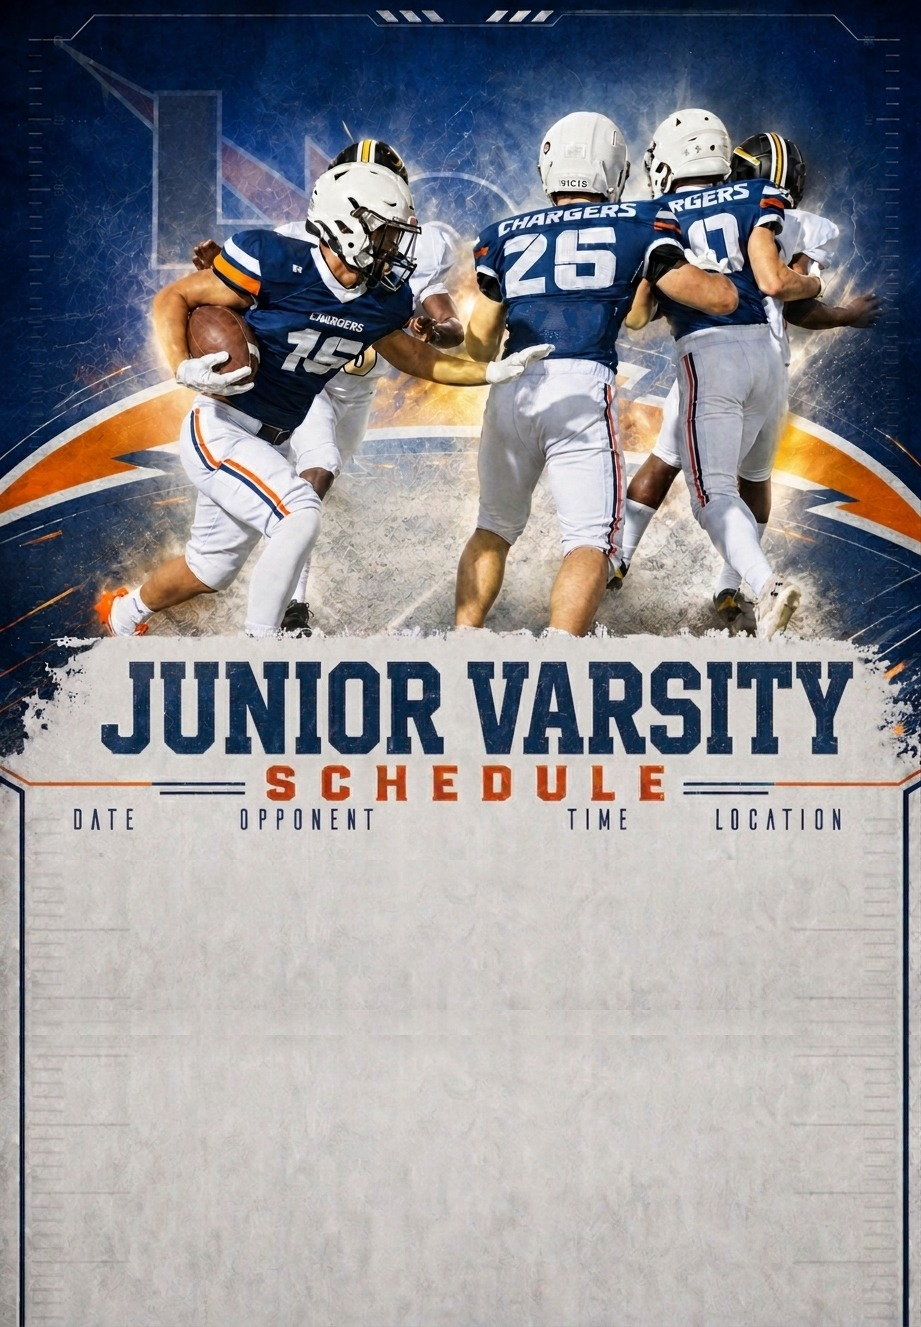
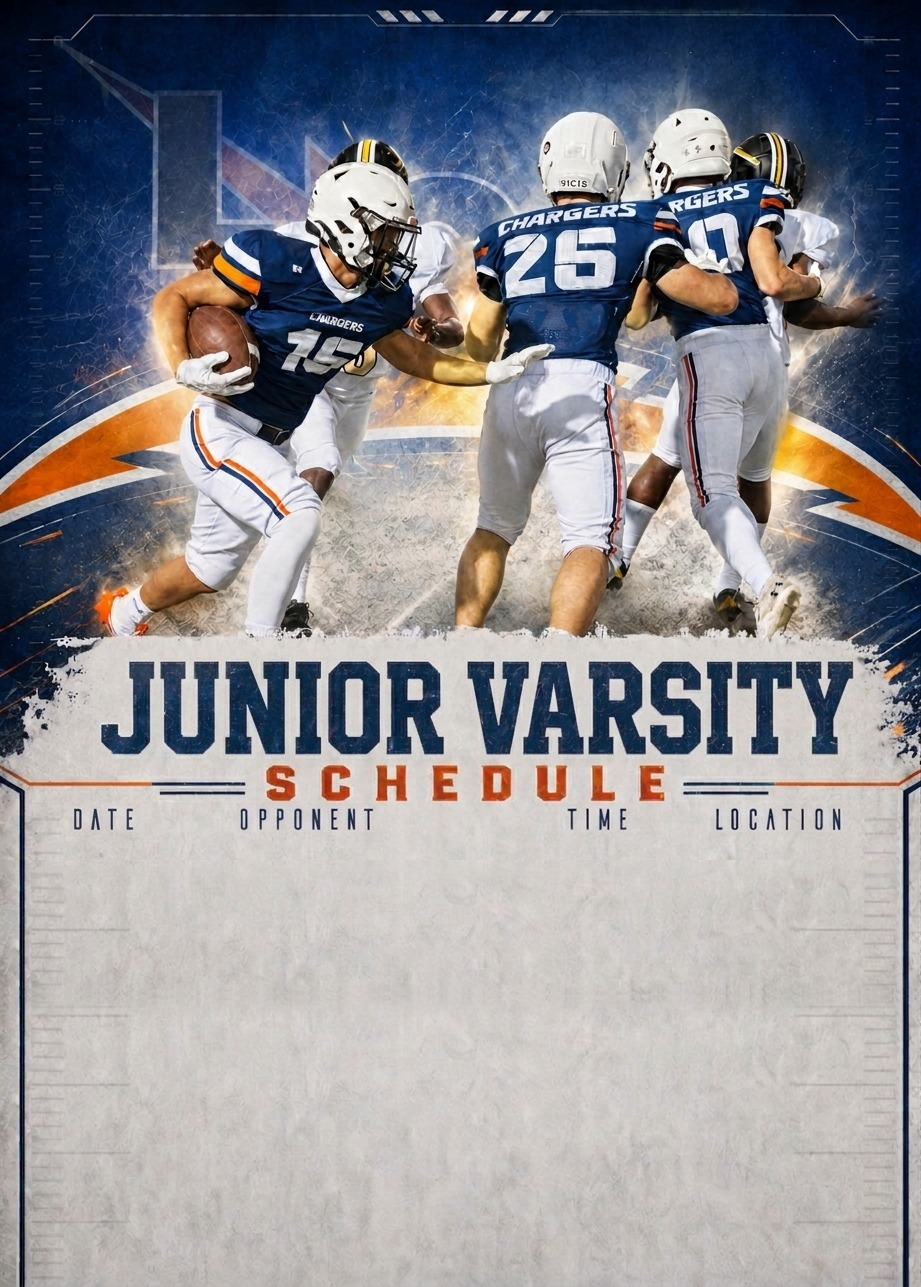
Shrink schedule bg images to exact real row counts, no buffer (#11)
Live feedback after deploying the 14/12/8-target version: still too
much blank space. Dropping all row headroom - each image is now
sized to fit exactly today's real row count (12 Varsity / 11 JV / 8
JH), not a projected future count:

  v_bg.jpeg:  921x1152 -> 921x1212 (+60px,  was +135px)
  jv_bg.jpeg: 921x1152 -> 921x1287 (+175px, was +330px... (sic, was
              +175px from the previous 14/12/8 round))
  jh_bg.jpeg: unchanged (921x1212, already at its real count)

Peak blank space (at the worst mid-width tablet viewport) drops
from ~19-23% of card height to ~15-19%; phone-width blank space
drops from ~11-15% to ~8-10%. Re-verified zero clipping at today's
exact row counts across viewport widths 300px-1440px, ~16-18px
margin at the worst width (300px).

Tradeoff, stated directly: with zero buffer, adding even one more
real row (e.g. a playoff game) will clip again on narrow phones
until these are resized again - same quick process as before.

Claude-Session: https://claude.ai/code/session_01DU4s2fKT84GGohvFAb6zRm

diff --git a/css/football.css b/css/football.css
@@ -139,34 +139,36 @@
    output instead, rescale its top/bottom by the same ratio first or
    the schedule grid will start too high again.
 
-   SIZING NOTE: target row capacity is 14 Varsity / 12 JV / 8 JH
-   (picked directly, not a shared rule), so each image got its own
-   extra height:
-     v_bg.jpeg:  921x1152 -> 921x1287 (+135px, today 13 rows, target 14)
-     jv_bg.jpeg: 921x1152 -> 921x1327 (+175px, today 11 rows, target 12)
-     jh_bg.jpeg: 921x1152 -> 921x1212 (+60px,  today 8 rows,  target 8)
-   JH's target equals its current row count, but it still needed
-   +60px: even at today's 8 rows the ORIGINAL 1152px image already
-   clipped on narrow phones (not on desktop), so some extension was
-   unavoidable just to stop clipping where things stand right now,
-   with no additional row headroom built in.
-   Checked for clipping at the target row counts across viewport
-   widths from 300px (narrow phones) up through 1440px desktop -
-   narrow phones are the real worst case here, not desktop, because
-   the image renders at a smaller CSS pixel width there so the same
-   row overflows into more natural image pixels. Each has ~18-19px
-   of margin at its target row count at the worst width tested
-   (vw=300). Below the target (true today for all three), there's
-   blank space at the bottom by design. If any target changes,
-   re-run /tmp/extend_bg.py (if still around) or regenerate with a
-   new extra_px per image and rescale these percentages by
-   old_height/new_height the same way. */
+   SIZING NOTE: zero row buffer - each image is sized to fit exactly
+   today's real row count, not a projected future count:
+     v_bg.jpeg:  921x1152 -> 921x1212 (+60px,  12 real Varsity rows)
+     jv_bg.jpeg: 921x1152 -> 921x1287 (+135px, 11 real JV rows)
+     jh_bg.jpeg: 921x1152 -> 921x1212 (+60px,  8 real JH rows, unchanged)
+   (Previously targeted 14/12/8 with headroom for more rows than
+   today's count - that left too much visible blank space in
+   production, per direct feedback, so dropped the headroom
+   entirely. The tradeoff: once a real schedule grows past today's
+   count - e.g. a playoff game added to Varsity - these need
+   re-sizing again, same process as before, or that one new row
+   clips again on narrow phones.) Even with zero row buffer, +60px
+   was still unavoidable on Varsity/JH: the ORIGINAL 1152px image
+   already clipped their current real row counts on narrow phones
+   (not desktop), so that's the floor, not a buffer.
+   Checked for clipping at exactly today's row counts across
+   viewport widths from 300px (narrow phones) up through 1440px
+   desktop - narrow phones are the real worst case here, not
+   desktop, because the image renders at a smaller CSS pixel width
+   there so the same row overflows into more natural image pixels.
+   ~16-18px of margin at the worst width tested (vw=300). If a
+   team's real row count changes, re-run /tmp/extend_bg.py (if
+   still around) or regenerate with a new extra_px per image and
+   rescale these percentages by old_height/new_height the same way. */
    /* Your Exact Varsity Placement Blueprint */
    .chargers-varsity-overlay {
      left: 7.5% !important;
      right: 3.5% !important;
-     top: 59.08% !important; /* 66% * (1152/1287) */
-     bottom: 1.79% !important; /* 2% * (1152/1287) */
+     top: 62.73% !important; /* 66% * (1152/1212) */
+     bottom: 1.90% !important; /* 2% * (1152/1212) */
      font-size: clamp(7px, 1.25vw, 18px) !important;
      line-height: 1.6 !important;
    }
@@ -174,8 +176,8 @@
    .chargers-jv-overlay {
      left: 7.5% !important;
      right: -0.5% !important;
-     top: 63.37% !important; /* 73% * (1152/1327) */
-     bottom: 1.74% !important; /* 2% * (1152/1327) */
+     top: 65.34% !important; /* 73% * (1152/1287) */
+     bottom: 1.79% !important; /* 2% * (1152/1287) */
      font-size: clamp(8px, 1.45vw, 18px) !important;
      line-height: 1.5 !important;
    }
@@ -289,7 +291,7 @@
 
    RESCALED for the taller background images - see the TUNER OUTPUT
    REGION comment above for why, and for each image's own new
-   height (v: 1287, jv: 1327, jh: 1212 - each team was rescaled by
+   height (v: 1212, jv: 1287, jh: 1212 - each team was rescaled by
    its OWN ratio, not a shared one, since each image grew by a
    different amount). The measured team_name_top_pct values above
    are still relative to each ORIGINAL 1152px-tall image (that art
@@ -302,10 +304,10 @@
    is), never by nudging these directly, if any image's height
    changes again. */
 .chargers-record-varsity {
-  top: calc(42.31% - 1.02em) !important; /* (0.497 - 0.0243) * (1152/1287) */
+  top: calc(44.93% - 1.02em) !important; /* (0.497 - 0.0243) * (1152/1212) */
 }
 .chargers-record-jv {
-  top: calc(46.94% - 1.02em) !important; /* (0.565 - 0.0243) * (1152/1327) */
+  top: calc(48.40% - 1.02em) !important; /* (0.565 - 0.0243) * (1152/1287) */
 }
 .chargers-record-jh {
   top: calc(51.11% - 1.02em) !important; /* (0.562 - 0.0243) * (1152/1212) */
